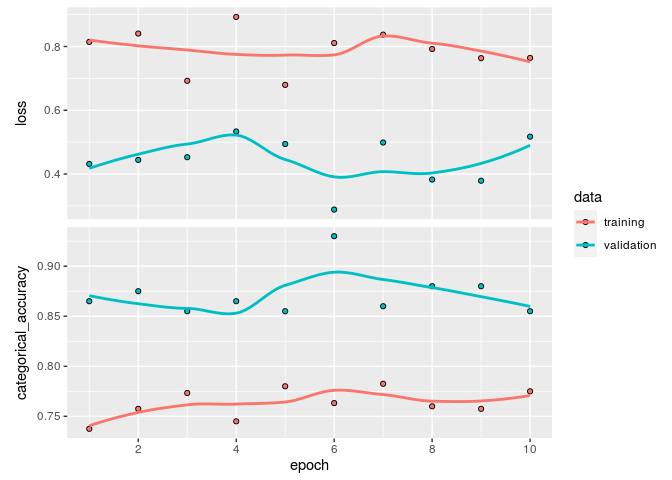
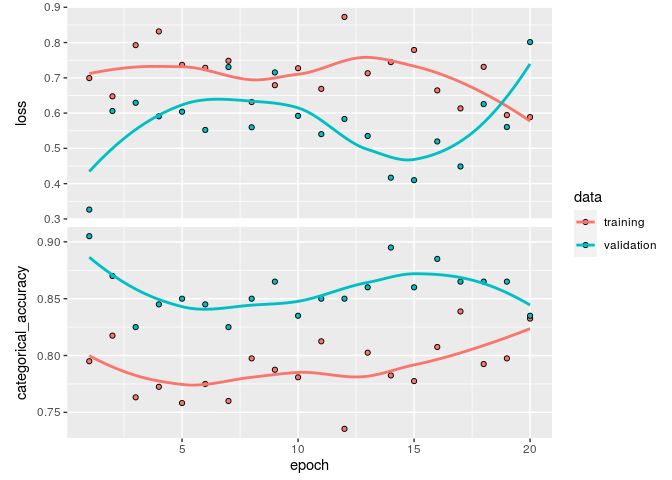
Trying longer epoch

diff --git a/Fine-tune-layer-4.md b/Fine-tune-layer-4.md
@@ -120,8 +120,8 @@ Plotting to see if it works :
     ## <keras_preprocessing.image.dataframe_iterator.DataFrameIterator>
 
     ## List of 2
-    ##  $ : num [1:4, 1:448, 1:448, 1:3] 42.6 35.9 53.1 179 42.7 ...
-    ##  $ : num [1:4, 1:4] 0 1 1 1 0 0 0 0 0 0 ...
+    ##  $ : num [1:4, 1:448, 1:448, 1:3] 90 77.3 246 44.4 85.2 ...
+    ##  $ : num [1:4, 1:4] 1 1 0 1 0 0 0 0 0 0 ...
 
 # Impot pre-trained model
 
@@ -587,7 +587,7 @@ divided by 10. Same for the base\_lr.
 
 ``` r
 n=100
-nb_epochs=10
+nb_epochs=20
 n_iter<-n*nb_epochs
 ```
 
